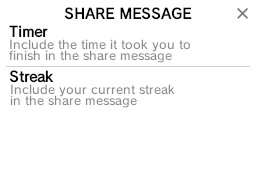
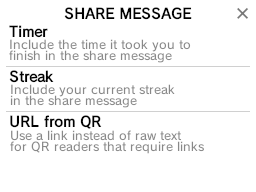
Add option to use URL for QR
Some QR readers don't support plaintext (or at least don't well)
Uses https://xn--rck9c.xn--tckwe/wordle.php, a simple page that lets you copy it and has a few convenience share buttons

Changed region(s): [[0.0312, 0.5625, 0.9688, 0.8125]]

diff --git a/source/settings.cpp b/source/settings.cpp
@@ -42,6 +42,9 @@ Settings::Settings(const std::string &path) : _path(path) {
 
 		if(json["shareMsg"].contains("streak") && json["shareMsg"]["streak"].isBool())
 			_shareStreak = json["shareMsg"]["streak"].isTrue();
+
+		if(json["shareMsg"].contains("url") && json["shareMsg"]["url"].isBool())
+			_shareUrl = json["shareMsg"]["url"].isTrue();
 	} else if(json.contains("timer") && json["timer"].isBool()) {
 		_shareTimer = json["timer"].isTrue();
 	}
@@ -57,6 +60,7 @@ bool Settings::save() {
 	Json shareMsg = json.create(true, "shareMsg");
 	shareMsg.set(_shareTimer, "timer");
 	shareMsg.set(_shareStreak, "streak");
+	shareMsg.set(_shareUrl, "url");
 
 	FILE *file = fopen(_path.c_str(), "w");
 	if(file) {
@@ -274,6 +278,8 @@ void Settings::shareMsgSettings() {
 	timerToggle.move(game->data().shareTimerToggle());
 	Sprite streakToggle(false, SpriteSize_32x16, SpriteColorFormat_16Color);
 	streakToggle.move(game->data().shareStreakToggle());
+	Sprite urlToggle(false, SpriteSize_32x16, SpriteColorFormat_16Color);
+	urlToggle.move(game->data().shareUrlToggle());
 
 	while(1) {
 		game->data().setPalettes(_altPalette);
@@ -283,6 +289,9 @@ void Settings::shareMsgSettings() {
 		streakToggle
 			.gfx(_shareStreak ? game->data().toggleOnGfx() : game->data().toggleOffGfx())
 			.palette(_shareStreak ? TilePalette::green : TilePalette::gray);
+		urlToggle
+			.gfx(_shareUrl ? game->data().toggleOnGfx() : game->data().toggleOffGfx())
+			.palette(_shareUrl ? TilePalette::green : TilePalette::gray);
 		Sprite::update(false);
 
 		u16 pressed;
@@ -306,6 +315,8 @@ void Settings::shareMsgSettings() {
 				_shareTimer = !_shareTimer;
 			} else if(game->data().shareStreakToggle().touching(touch)) {
 				_shareStreak = !_shareStreak;
+			} else if(game->data().shareUrlToggle().touching(touch)) {
+				_shareUrl = !_shareUrl;
 			}
 		}
 	}

diff --git a/source/stats.cpp b/source/stats.cpp
@@ -98,6 +98,11 @@ bool Stats::save() {
 	return false;
 }
 
+void Stats::replaceAll(std::string &data, std::string search, std::string replaceStr) {
+	while(data.find(search) != std::string::npos)
+		data.replace(data.find(search), search.size(), replaceStr);
+}
+
 void Stats::showQr() {
 	// Ensure the game is done
 	std::vector<TilePalette> allCorrect;
@@ -107,6 +112,13 @@ void Stats::showQr() {
 		return;
 
 	std::string str = shareMessage();
+
+	if(settings->shareUrl()) {
+		// URL encode string
+		replaceAll(str, "\n", "%0a");
+		replaceAll(str, " ", "%20");
+		str = "https://xn--rck9c.xn--tckwe/wordle.php?message=" + str;
+	}
 
 	QRcode *qr = QRcode_encodeString(str.c_str(), 0, QR_ECLEVEL_L, QR_MODE_8, true);
 

diff --git a/include/settings.hpp b/include/settings.hpp
@@ -14,6 +14,7 @@ class Settings {
 	bool _music = true;
 	bool _shareTimer = false;
 	bool _shareStreak = false;
+	bool _shareUrl = false;
 	std::string _mod = DEFAULT_MOD;
 
 	void shareMsgSettings(void);
@@ -44,6 +45,9 @@ public:
 
 	bool shareStreak(void) const { return _shareStreak; }
 	Settings &shareStreak(bool shareStreak) { _shareStreak = shareStreak; return *this; }
+
+	bool shareUrl(void) const { return _shareUrl; }
+	Settings &shareUrl(bool shareUrl) { _shareUrl = shareUrl; return *this; }
 
 	const std::string &mod(void) const { return _mod; }
 	Settings &mod(const std::string &mod) { _mod = mod; return *this; }

diff --git a/include/gameData.hpp b/include/gameData.hpp
@@ -49,6 +49,7 @@ class GameData {
 
 	Button _shareTimerToggle = {224, 37, 21, 13};
 	Button _shareStreakToggle = {224, 82, 21, 13};
+	Button _shareUrlToggle = {224, 128, 21, 13};
 
 	bool _oldStatsMenu = false;
 
@@ -209,6 +210,7 @@ public:
 
 	const Button &shareTimerToggle(void) const { return _shareTimerToggle; }
 	const Button &shareStreakToggle(void) const { return _shareStreakToggle; }
+	const Button &shareUrlToggle(void) const { return _shareUrlToggle; }
 
 	bool oldStatsMenu(void) const { return _oldStatsMenu; }
 

diff --git a/source/gameData.cpp b/source/gameData.cpp
@@ -162,6 +162,9 @@ GameData::GameData(const std::string &folder) {
 
 				if(buttons.contains("streak") && buttons["streak"].isArray() && buttons["streak"].size() == 4)
 					_shareStreakToggle = Button(buttons["streak"]);
+
+				if(buttons.contains("url") && buttons["url"].isArray() && buttons["url"].size() == 4)
+					_shareUrlToggle = Button(buttons["url"]);
 			}
 		}
 

diff --git a/include/stats.hpp b/include/stats.hpp
@@ -18,6 +18,7 @@ class Stats {
 	time_t _lastWon = 0;
 	int _timeElapsed = 0;
 
+	void replaceAll(std::string &data, std::string search, std::string replaceStr);
 	void showQr(void);
 
 public:
